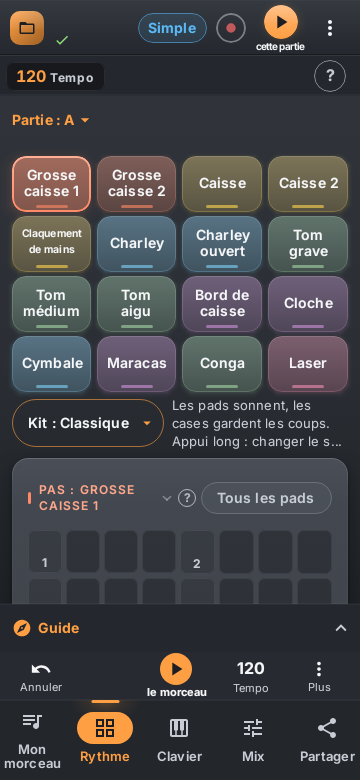
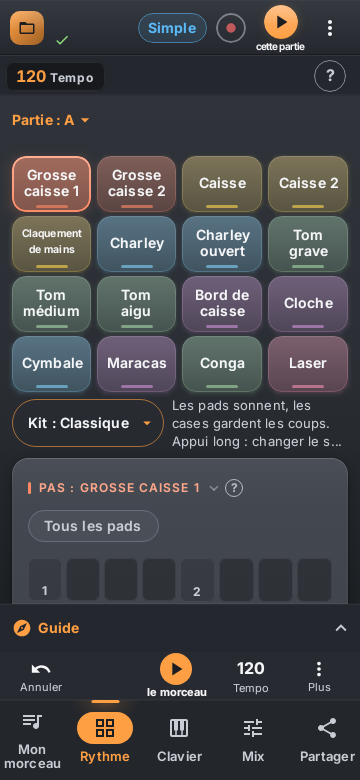
vert: Tour9L15FineTest#f052FarHitToEraseSaysToTakeItAway f057SwingOnePercentUpAndDown f057SwingStopsAtItsEnds
The grid line's bar button says « barré : à enlever » when the hits left
there are to take away (F052). The Swing gets « − » and « + » to reach any
value to 1 % (F057, its half on the Rythme screen). Three nav captures
re-recorded for the step head moved in 36c00640.

Claude-Session: https://claude.ai/code/session_014RxrDL4g9rgPXroPejY6kF

Changed region(s): [[0.0611, 0.6154, 0.55, 0.7692], [0.5806, 0.6154, 0.8861, 0.6462], [0.5194, 0.7077, 0.55, 0.7692]]

diff --git a/app/src/test/java/com/pocketstudio/app/rhythm/Tour9L15CapturesTest.kt b/app/src/test/java/com/pocketstudio/app/rhythm/Tour9L15CapturesTest.kt
@@ -7,7 +7,9 @@ import androidx.compose.foundation.layout.width
 import androidx.compose.ui.unit.dp
 import androidx.compose.ui.Modifier
 import androidx.compose.ui.test.junit4.createComposeRule
+import androidx.compose.ui.test.onNodeWithTag
 import androidx.compose.ui.test.onRoot
+import androidx.compose.ui.test.performScrollTo
 import com.github.takahirom.roborazzi.captureRoboImage
 import com.pocketstudio.app.ui.UiScaled
 import com.pocketstudio.model.Project
@@ -73,6 +75,24 @@ class Tour9L15CapturesTest {
     @Test fun lineAt200() = line("ligne_tuto_200", 2f, here = 0, elsewhere = 3 to 5)
     @Test fun lineAt200OtherPad() = line("ligne_tuto_200_autre_pad", 2f, here = 0, elsewhere = null, toPad = "Caisse claire" to {})
     @Test fun lineAt200Here() = line("ligne_tuto_200_ici", 2f, here = 3, elsewhere = null)
+
+    /** F057: the Swing with its « − » and « + » (the groove card, scrolled into view). */
+    private fun swing(name: String, fontScale: Float) {
+        RuntimeEnvironment.setFontScale(fontScale)
+        val project = Project().copy(swing = 0.25 * Project.MAX_SWING)
+        compose.setContent {
+            PocketStudioTheme {
+                Box(Modifier.background(Neon.Background)) {
+                    RhythmScreen(project = project, transport = TransportUi(selectedPad = 0), live = { LiveUi() }, canUndo = false, canRedo = false, actions = RhythmActions())
+                }
+            }
+        }
+        compose.waitForIdle()
+        compose.onNodeWithTag(SWING_SPOT).performScrollTo().captureRoboImage("build/outputs/roborazzi/tour9-L15/$name.png")
+    }
+
+    @Test fun swingAt100() = swing("swing_100", 1f)
+    @Test fun swingAt200() = swing("swing_200", 2f)
 
     @Test fun at100() = shot("rythme_360_100")
     @Test fun at130() = shot("rythme_360_130", uiScale = 1.3f)

diff --git a/app/src/main/java/com/pocketstudio/app/rhythm/RhythmScreen.kt b/app/src/main/java/com/pocketstudio/app/rhythm/RhythmScreen.kt
@@ -1064,7 +1064,12 @@ private fun GrooveCard(project: Project, transport: TransportUi, actions: Rhythm
                 Text(tr("Swing"))
                 HelpDot(Glossary.SWING)
                 Box(Modifier.weight(1f))
-                Text(percent((project.swing / Project.MAX_SWING * 100).roundToInt()), style = MonoStyle, color = Neon.Cyan)
+                // F057 (tour 9): « − » and « + » reach any value to 1 % (the slider alone, under a finger, skipped the asked one).
+                val shown = (project.swing / Project.MAX_SWING * 100).roundToInt()
+                val to = { pc: Int -> actions.setSwing(pc.coerceIn(0, 100) / 100.0 * Project.MAX_SWING) }
+                TextButton(onClick = { to(shown - 1) }, enabled = shown > 0, modifier = Modifier.testTag("swing_minus")) { Text("−") }
+                Text(percent(shown), style = MonoStyle, color = Neon.Cyan)
+                TextButton(onClick = { to(shown + 1) }, enabled = shown < 100, modifier = Modifier.testTag("swing_plus")) { Text("+") }
             }
             ProSlider(
                 value = (project.swing / Project.MAX_SWING).toFloat(),

diff --git a/app/src/main/java/com/pocketstudio/app/tuto/TutoPanel.kt b/app/src/main/java/com/pocketstudio/app/tuto/TutoPanel.kt
@@ -295,7 +295,9 @@ fun TutoGridLine(
                 copy != null -> Button(onClick = copy, modifier = Modifier.heightIn(min = 40.dp).testTag("tuto_grid_copy")) { Text(tr("Copier"), maxLines = 1) }
                 elsewhere != null && here == 0 -> TextButton(onClick = { go(elsewhere.first) }, modifier = Modifier.heightIn(min = 48.dp).testTag("tuto_bar_go")) {
                     Text(
-                        trCount(elsewhere.second, "Mesure %2\$d · %1\$d case", "Mesure %2\$d · %1\$d cases", elsewhere.second, elsewhere.first + 1) + (if (elsewhere.first > bar) " →" else ""),
+                        trCount(elsewhere.second, "Mesure %2\$d · %1\$d case", "Mesure %2\$d · %1\$d cases", elsewhere.second, elsewhere.first + 1) +
+                            // F052 (tour 9, seat t9-41): hits to take away there are said so, not as cells to add.
+                            (if (erasing) " · " + tr("barré : à enlever") else "") + (if (elsewhere.first > bar) " →" else ""),
                         color = Neon.Amber, fontWeight = FontWeight.Bold,
                     )
                 }
